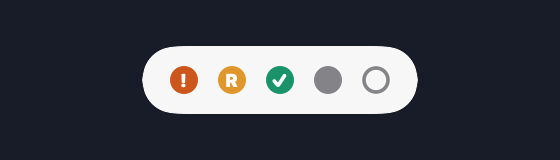
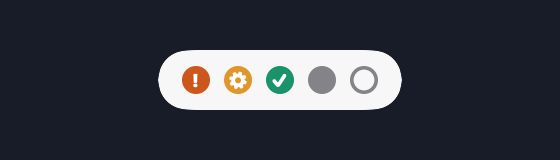
feat: spinning gear for the running state
Replace the 'R' letter with a gear symbol (SF Symbols gearshape.fill):
symbols read faster than letters at dot size, matching ! and checkmark.
In the floating bar the gear spins continuously via SwiftUI (respecting
Reduce Motion); the tray menu shows it static. Regenerated README assets
and updated the spec.

Changed region(s): [[0.2429, 0.2812, 0.7589, 0.7188]]

diff --git a/Sources/ClaudeLights/FloatingBar.swift b/Sources/ClaudeLights/FloatingBar.swift
@@ -41,15 +41,56 @@ struct HoverReporter: NSViewRepresentable {
     }
 }
 
+/// A single status dot for the floating bar. Colorblind-safe color plus a
+/// glyph; the running state spins a gear (unless Reduce Motion is on).
+struct DotView: View {
+    let light: LightState
+    private let d: CGFloat = 14
+    @State private var spinning = false
+    @Environment(\.accessibilityReduceMotion) private var reduceMotion
+
+    var body: some View {
+        ZStack {
+            if StatusIcon.isHollow(light) {
+                Circle().strokeBorder(Color(StatusIcon.color(light)), lineWidth: 1.8)
+            } else {
+                Circle().fill(Color(StatusIcon.color(light)))
+            }
+            switch light {
+            case .yellow:
+                Image(systemName: "gearshape.fill")
+                    .resizable().scaledToFit()
+                    .frame(width: d * 0.66, height: d * 0.66)
+                    .foregroundColor(.white)
+                    .rotationEffect(.degrees(spinning ? 360 : 0))
+                    .onAppear {
+                        guard !reduceMotion else { return }
+                        withAnimation(.linear(duration: 2).repeatForever(autoreverses: false)) {
+                            spinning = true
+                        }
+                    }
+            case .red, .green:
+                Text(StatusIcon.glyph(light) ?? "")
+                    .font(.system(size: d * 0.64, weight: .heavy))
+                    .foregroundColor(.white)
+            case .greenSeen, .gray:
+                EmptyView()
+            }
+        }
+        .frame(width: d, height: d)
+    }
+}
+
 struct BarView: View {
     @ObservedObject var store: SessionStore
     var onJump: (Session) -> Void
     var onHover: (Session, Bool, NSRect) -> Void
 
     var body: some View {
-        HStack(spacing: 6) {
+        HStack(spacing: 7) {
             ForEach(store.sessions) { session in
-                Image(nsImage: StatusIcon.image(for: session.light))
+                DotView(light: session.light)
+                    .id(session.light) // restart the spin animation on state change
                     .background(HoverReporter { hovering, anchor in
                         onHover(session, hovering, anchor)
                     })

diff --git a/Sources/ClaudeLights/StatusIcon.swift b/Sources/ClaudeLights/StatusIcon.swift
@@ -13,14 +13,22 @@ enum StatusIcon {
         }
     }
 
-    /// Second encoding channel: a glyph for the states that need attention.
+    /// Second encoding channel: a text glyph for the attention states.
+    /// Running uses a gear symbol instead (see `gearImage`).
     static func glyph(_ light: LightState) -> String? {
         switch light {
         case .red: return "!"
-        case .yellow: return "R"
         case .green: return "✓"
-        case .greenSeen, .gray: return nil
+        case .yellow, .greenSeen, .gray: return nil
         }
+    }
+
+    /// White gear symbol for the running state (static here; the floating
+    /// bar spins it). SF Symbols; nil on the rare system without it.
+    static func gearImage(diameter: CGFloat) -> NSImage? {
+        let config = NSImage.SymbolConfiguration(pointSize: diameter * 0.72, weight: .bold)
+        return NSImage(systemSymbolName: "gearshape.fill", accessibilityDescription: "running")?
+            .withSymbolConfiguration(config)
     }
 
     /// Third channel for the two calm gray states: a brand-new session is a
@@ -40,7 +48,14 @@ enum StatusIcon {
                 color(light).setFill()
                 NSBezierPath(ovalIn: circle).fill()
             }
-            if let glyph = glyph(light) {
+            if light == .yellow, let gear = gearImage(diameter: diameter) {
+                let g = gear.size
+                let box = NSRect(x: circle.midX - g.width / 2, y: circle.midY - g.height / 2,
+                                 width: g.width, height: g.height)
+                gear.draw(in: box)
+                NSColor.white.set()
+                box.fill(using: .sourceAtop) // tint the template gear white
+            } else if let glyph = glyph(light) {
                 let font = NSFont.systemFont(ofSize: diameter * 0.64, weight: .heavy)
                 let text = NSAttributedString(string: glyph, attributes: [
                     .font: font, .foregroundColor: NSColor.white,

diff --git a/README.md b/README.md
@@ -7,7 +7,7 @@ so it reads clearly regardless of color vision:
 | Dot | State |
 |-----|-------|
 | **!** vermillion | Waiting for you (input / permission approval) |
-| **R** amber | Running (working) |
+| ⚙ amber (spinning) | Running (working) |
 | **✓** bluish-green | Done — finished, not yet looked at |
 | filled gray | Idle — already seen |
 | hollow gray | Just started, nothing yet |

diff --git a/docs/superpowers/specs/2026-07-07-claude-lights-design.md b/docs/superpowers/specs/2026-07-07-claude-lights-design.md
@@ -78,7 +78,7 @@ color alone (a colleague is colorblind).
 | Light | Color | Glyph/shape | Meaning | Source values |
 |-------|-------|-------------|---------|---------------|
 | Red | vermillion `#D55E00` | `!` | Waiting for the user (input / permission) | `waiting` |
-| Yellow | amber `#E69F00` | `R` | Working | `busy`, `shell`, `working`, `running` |
+| Yellow | amber `#E69F00` | gear (spins in the bar) | Working | `busy`, `shell`, `working`, `running` |
 | Green | bluish-green `#009E73` | `✓` | Idle / done, not yet looked at | `idle`, `state: done` |
 | Dim green | gray, filled | (none) | Idle / done, already seen | green + seen |
 | Gray | gray, hollow ring | (none) | Brand-new (no transcript) / unknown | anything else |